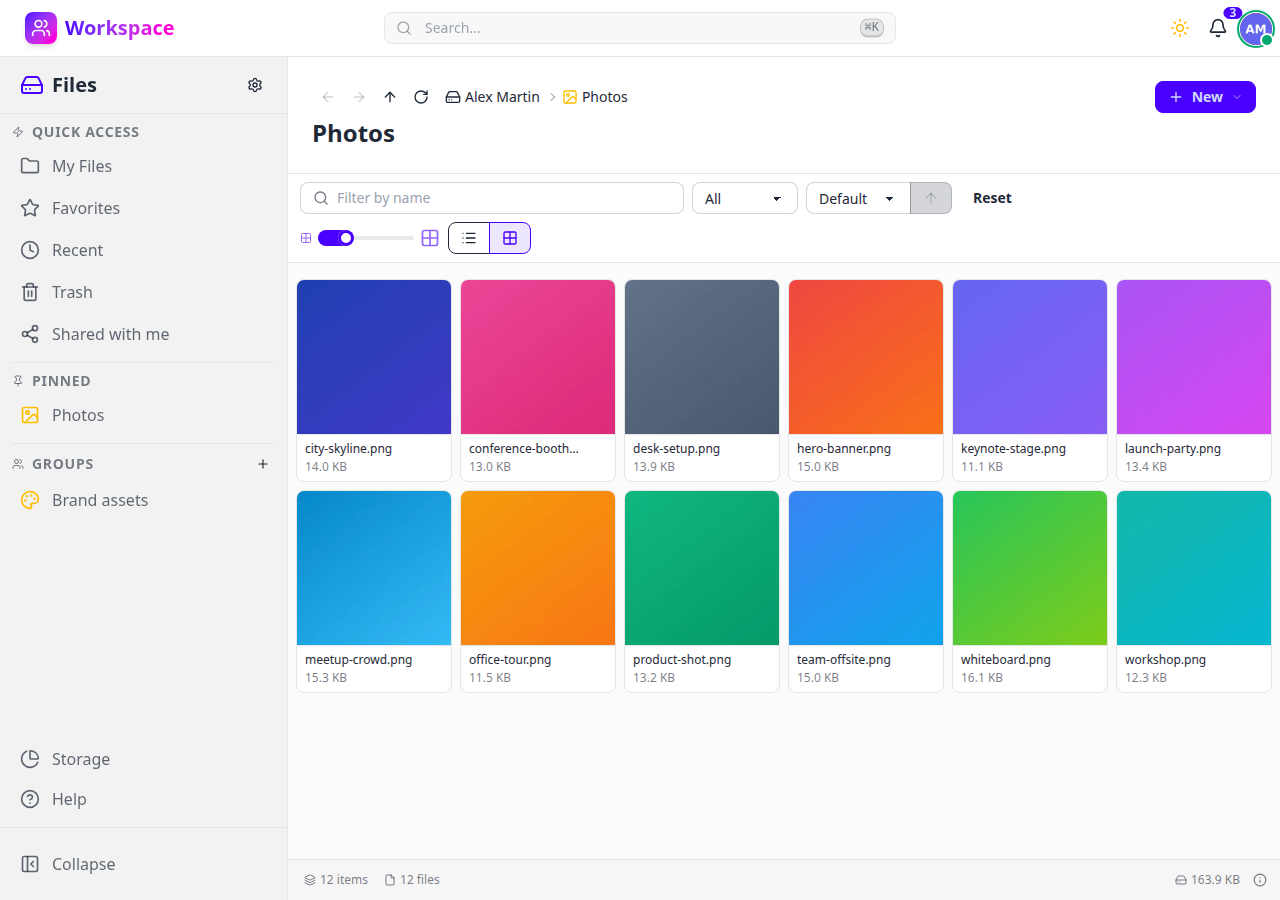
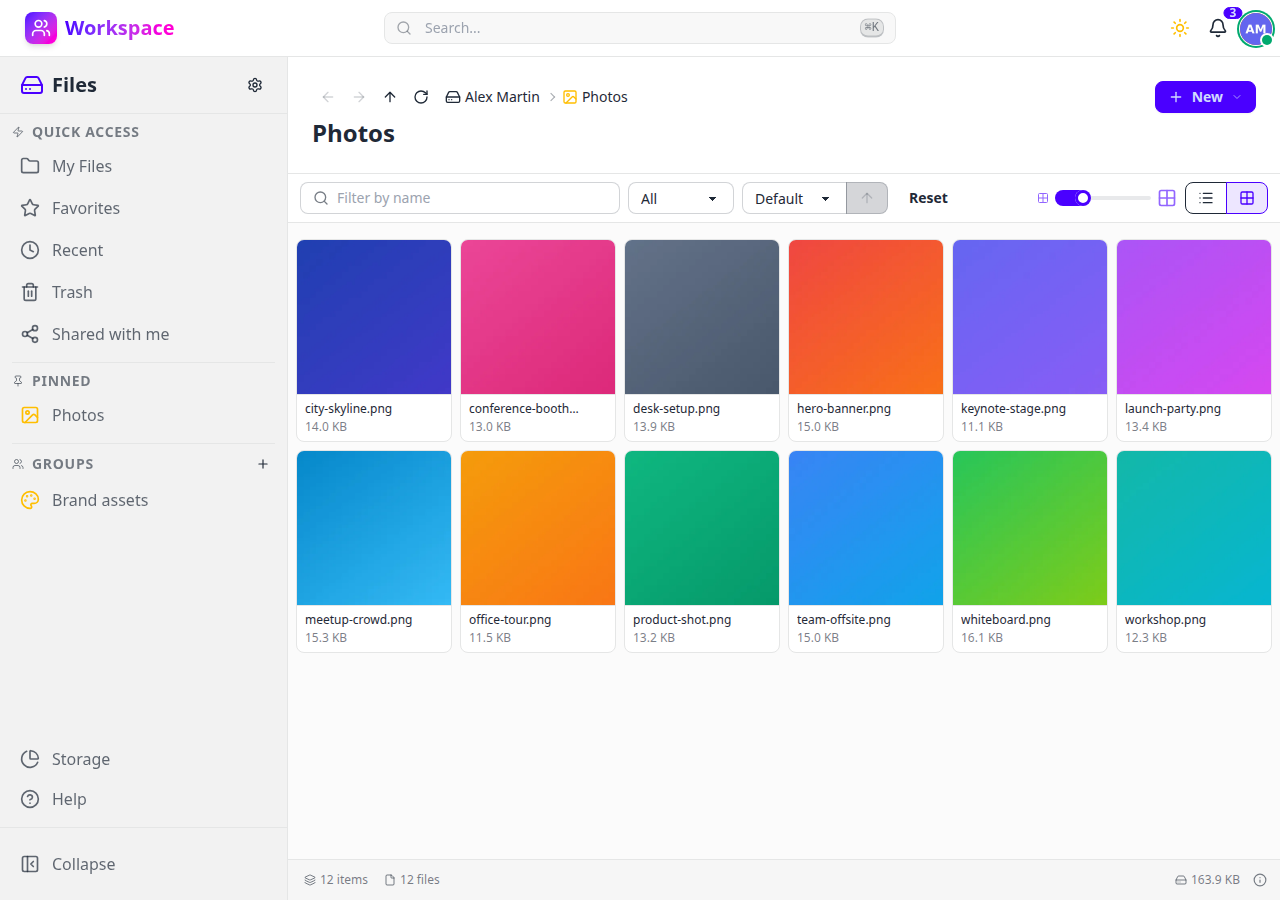
fix(files): keep the browser toolbar on one line on 1280px viewports

Changed region(s): [[0.2188, 0.4356, 1.0, 0.56], [0.2188, 0.6533, 1.0, 0.7778], [0.2188, 0.1867, 1.0, 0.3111]]

diff --git a/workspace/files/ui/templates/files/ui/partials/folder_content.html b/workspace/files/ui/templates/files/ui/partials/folder_content.html
@@ -26,7 +26,7 @@
           x-show="selectedUuids.size === 0"
         >
           <label
-            class="input input-sm input-bordered flex items-center gap-2 w-full sm:w-48 md:w-64 lg:w-96"
+            class="input input-sm input-bordered flex items-center gap-2 w-full sm:w-48 md:w-64 lg:w-80"
           >
             <i data-lucide="search" class="w-4 h-4 opacity-60"></i>
             <input
